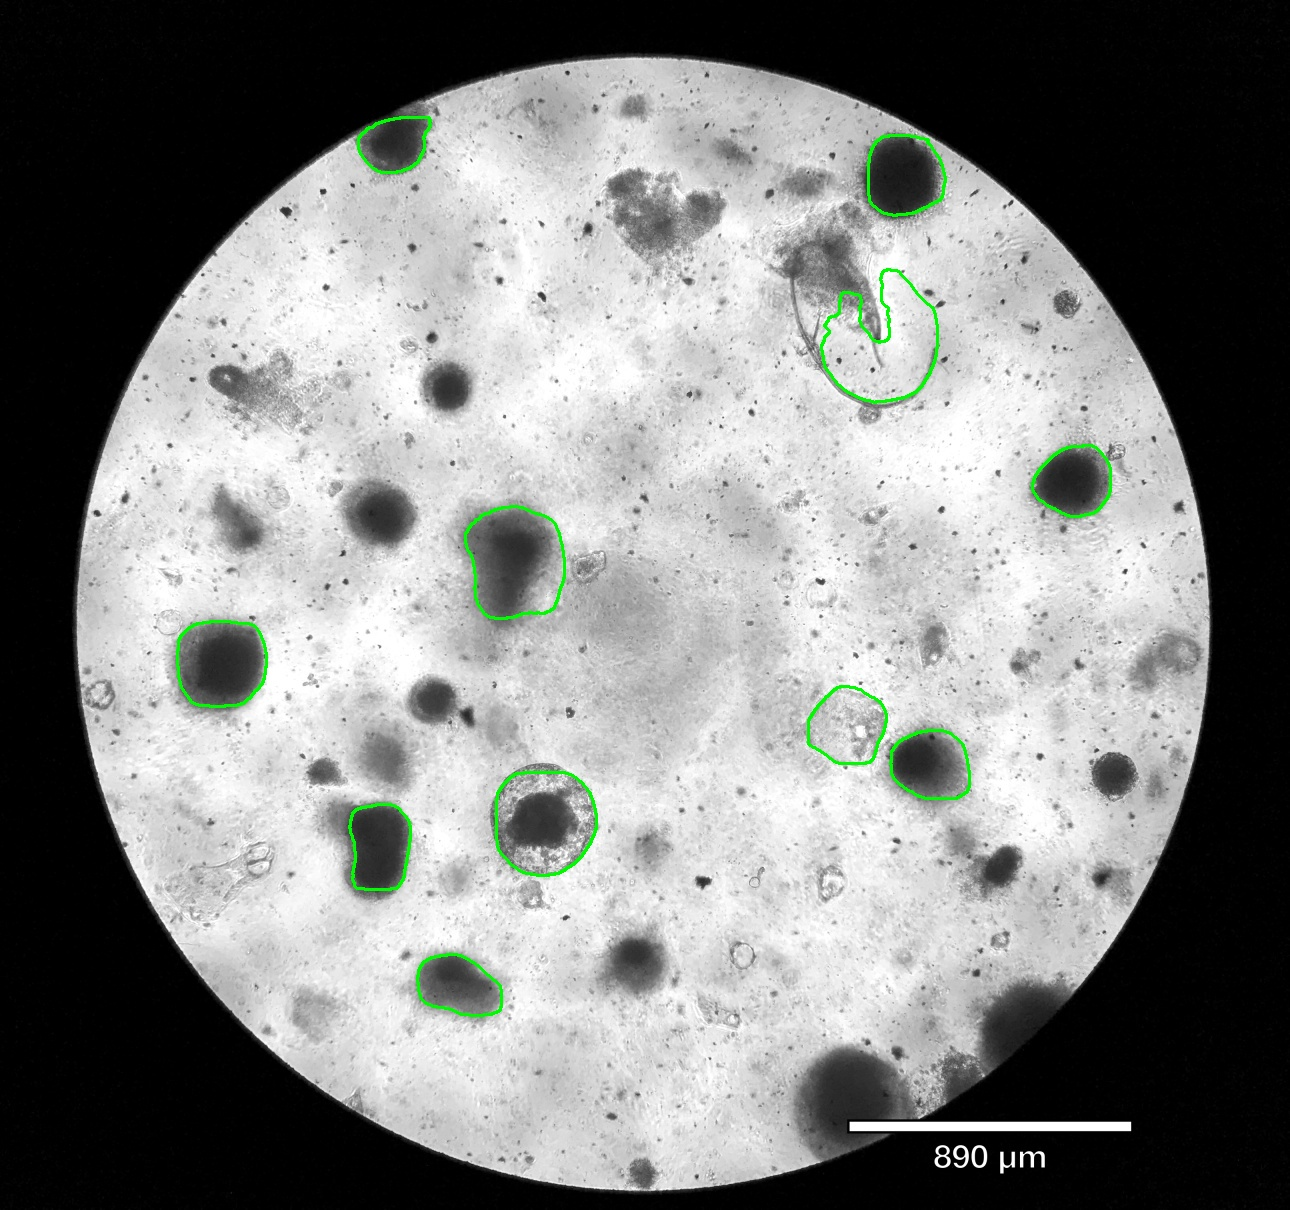
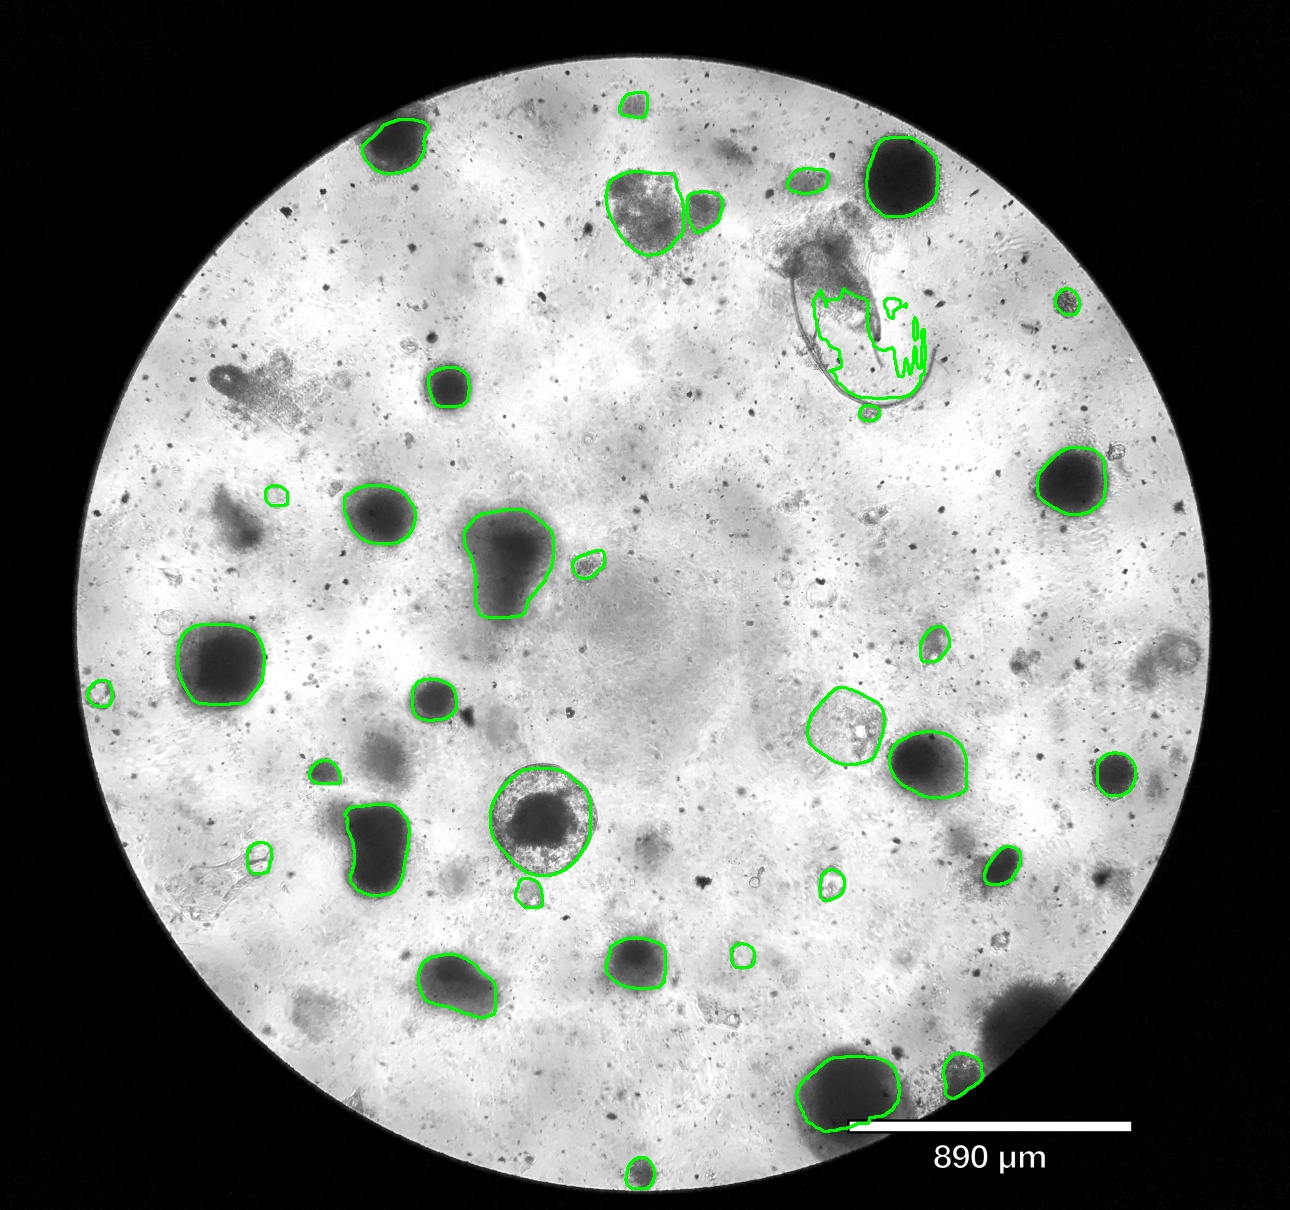
upload idk what to call this commit

diff --git a/mrcnn_training/main/Mask_RCNN/cell_analysis.py b/mrcnn_training/main/Mask_RCNN/cell_analysis.py
@@ -44,7 +44,7 @@ class Config(Config):
     # IMAGE_MAX_DIM = 832
 
 config = Config()
-MRCNN_model_path = "prediction_model\\mask_rcnn_custom_0005.h5"
+MRCNN_model_path = "prediction_model\\mask_rcnn_custom_0015.h5"
 model = modellib.MaskRCNN(mode="inference", model_dir=MRCNN_model_path, config=Config())
 #load model weights
 model.load_weights(MRCNN_model_path, by_name=True)
@@ -55,42 +55,48 @@ input_directory = './input'
 img_name_list = []
 avg_viability_list =[]
 avg_circularity_list = []
-
+avg_contour_area_list = []
+image_resolution_list = []
 for filename in os.listdir(input_directory):
     print("image_name: ",filename)
     f = os.path.join(input_directory, filename)
     if os.path.isfile(f):
        # print(f)
         image = cv2.imread(f)
+        width, height, channels = image.shape
+        image_resolution_list.append(f"{width}x{height}")
+
         results1 = model.detect([image], verbose=10)
         r1 = results1[0]
         thrld = 0.1
         dr = save_directory + '/' + filename
         """ Analysis part """
-        cell_count,cell_state_list,circularity_list = visualize_custom.display_instances(image, r1['rois'], r1['masks'], r1['class_ids'],
+        cell_count,cell_state_list,circularity_list, contour_area_list = visualize_custom.display_instances(image, r1['rois'], r1['masks'], r1['class_ids'],
                                 r1['scores'], thrld, dr,Debug=False)
 
         
         avg_live_state =mean(cell_state_list)
         avg_circularity = mean(circularity_list)
         avg_circularity = round(avg_circularity, 3)
-        
+        avg_contour_area = mean(contour_area_list)*0.20112673401606182 #convert to um
+        avg_contour_area = round(avg_contour_area, 3)
         #print(r1['masks'])
-        print("cellcount: ",cell_count)
-        print("cell_liveliness_state: ",cell_state_list)
-        print("circularity;",circularity_list)
-        print("average_viability: ",avg_live_state)
-        print("average_circularity: ",avg_circularity)
+        # print("cellcount: ",cell_count)
+        # print("cell_liveliness_state: ",cell_state_list)
+        # print("circularity;",circularity_list)
+        # print("average_viability: ",avg_live_state)
+        # print("average_circularity: ",avg_circularity)
         
         img_name_list.append(filename)
         avg_viability_list.append(avg_live_state)
         avg_circularity_list.append(avg_circularity)
+        avg_contour_area_list.append(avg_contour_area)
 
         """ csv file creation """
-        csv_lst = [img_name_list,avg_viability_list,avg_circularity_list]
+        csv_lst = [img_name_list,image_resolution_list,avg_viability_list,avg_contour_area_list,avg_circularity_list]
         
-        df = pd.DataFrame(list(zip(img_name_list, avg_circularity_list,avg_viability_list)),
-               columns =['Image_Name', 'Average_Circularity(ideal circle=0)','Average_Viability (%)'])
+        df = pd.DataFrame(list(zip(img_name_list,image_resolution_list,avg_circularity_list,avg_contour_area_list,avg_viability_list)),
+               columns =['Image_Name','Image_Resolution','Average_Circularity(ideal circle=0)','Average area','Average_Viability (%)'])
         df.to_csv("Analysis_out.csv", encoding='utf-8',index =False)
         
         

diff --git a/mrcnn_training/main/Mask_RCNN/caluclatePixelPerMicron.py b/mrcnn_training/main/Mask_RCNN/caluclatePixelPerMicron.py
@@ -1,0 +1,71 @@
+from tkinter import *
+import tkinter
+from tkinter import filedialog
+from turtle import pos
+import cv2
+import math
+root = Tk()
+root.withdraw()
+somefile = filedialog.askopenfilename()
+
+image = cv2.imread(somefile)
+width, height, channels = image.shape
+print(f"{width}x{height}")
+pos1 =()
+pos2 =()
+def click_event(event, x, y, flags, params):
+    global pos1, pos2
+    font = cv2.FONT_HERSHEY_SIMPLEX
+    # checking for left mouse clicks
+    if event == cv2.EVENT_LBUTTONDOWN:
+        pos1 = (x,y)
+ 
+        # displaying the coordinates
+        # on the Shell
+        print(x, ' ', y)
+ 
+        # displaying the coordinates
+        # on the image window
+
+        cv2.circle(image, (x,y), 5, (235,0,0), thickness=10, lineType=8, shift=0)
+        cv2.putText(image, "Pos 1",
+                    (x,y), font, 1,
+                    (255, 255, 0), 2)
+        cv2.imshow('image', image)
+        
+ 
+    # checking for right mouse clicks    
+    if event==cv2.EVENT_RBUTTONDOWN:
+        pos2 = (x,y)
+ 
+        # displaying the coordinates
+        # on the Shell
+        print(x, ' ', y)
+ 
+        # displaying the coordinates
+        # on the image window
+        cv2.circle(image, (x,y), 5, (0,0,235), thickness=10, lineType=8, shift=0)
+        cv2.putText(image, "Pos 2",
+                    (x,y), font, 1,
+                    (255, 255, 0), 2)
+        cv2.imshow('image', image)
+        
+cv2.imshow('image', image)
+
+# setting mouse handler for the image
+# and calling the click_event() function
+cv2.setMouseCallback('image', click_event)
+
+# wait for a key to be pressed to exit
+cv2.waitKey(0)
+print(pos1)
+pos1A,pos1B = pos1
+pos2A,pos2B = pos2
+dist = math.sqrt((pos1A-pos2A)**2 + (pos1B-pos2B)**2)
+print(dist)
+refrenceUM = input("Enter the refrence um: ")
+
+pixelsPerum = dist/float(refrenceUM)
+print(pixelsPerum)
+# close the window
+cv2.destroyAllWindows()

diff --git a/mrcnn_training/main/Mask_RCNN/mrcnn/visualize_custom.py b/mrcnn_training/main/Mask_RCNN/mrcnn/visualize_custom.py
@@ -58,6 +58,7 @@ def display_instances(image, boxes, masks, class_ids, scores, threshold, filenam
         
     cell_state_list =[]
     circularity_list =[]
+    contour_area_list =[]
     for i in range(N):
 	
         if scores[i] > threshold :  
@@ -109,8 +110,8 @@ def display_instances(image, boxes, masks, class_ids, scores, threshold, filenam
                 #print("avg_pixel_cell crop bb:",avg_pixel_cell)
                 
                 contour_area = cv2.contourArea(verts)
+                contour_area_list.append(contour_area)
                 #print("contour area: ",contour_area)
-                
                 rect_area = w*h
                 #print("rect_area:",rect_area)
                 
@@ -140,7 +141,7 @@ def display_instances(image, boxes, masks, class_ids, scores, threshold, filenam
                 # normalize = (mean_val - minval) / (maxval - minval)
                 # cell_state = normalize
 
-                deadThreshold = 80
+                deadThreshold = 90
                 precent20 = 100
                 precent50 = 120
                 precent80 = 130
@@ -148,7 +149,7 @@ def display_instances(image, boxes, masks, class_ids, scores, threshold, filenam
                 
 
 
-                print(mean_val)
+                # print(mean_val)
                 if 0<mean_val<=deadThreshold:
                     cell_state = "0% live"
                     cell_state =0
@@ -210,7 +211,7 @@ def display_instances(image, boxes, masks, class_ids, scores, threshold, filenam
        # print(cell_state_list)
 
 	
-    return cell,cell_state_list,circularity_list
+    return cell,cell_state_list,circularity_list,contour_area_list
 
 
 

diff --git a/mrcnn_training/main/Mask_RCNN/traintf2_vgia_trial.py b/mrcnn_training/main/Mask_RCNN/traintf2_vgia_trial.py
@@ -37,7 +37,7 @@ class CustomConfig(Config):
 
     # We use a GPU with 12GB memory, which can fit two images.
     # Adjust down if you use a smaller GPU.
-    IMAGES_PER_GPU = 1
+    IMAGES_PER_GPU = 2
 
     # Number of classes (including background)
     NUM_CLASSES = 1 + 1  # Background + number of classes (Here, 2)
@@ -96,7 +96,7 @@ class CustomDataset(utils.Dataset):
                                           #else r['region_attributes']['category_id'] for r in a['regions']]
             
             #print(".............",custom)
-            #print(kkk)
+            
             num_ids=[]
             #Add the classes according to the requirement
             for n in custom:

diff --git a/mrcnn_training/resize.py b/mrcnn_training/resize.py
@@ -8,7 +8,7 @@ for file in os.listdir(path):
     print(f"Resizing {f}")
     img = cv2.imread(f)
     resized = cv2.resize(img,(1360,1024), interpolation=cv2.INTER_AREA)
-    resized = cv2.resize(img,None,fx=0.4, fy=0.4, interpolation=cv2.INTER_AREA)
+    # resized = cv2.resize(img,None,fx=0.4, fy=0.4, interpolation=cv2.INTER_AREA)
     newName = "./raw_data_resized/" + file[:-4] + ".jpg"
     print(newName)
     cv2.imwrite(newName, resized)

diff --git a/mrcnn_training/main/Mask_RCNN/traintf2.py b/mrcnn_training/main/Mask_RCNN/traintf2.py
@@ -67,7 +67,7 @@ class CustomDataset(utils.Dataset):
 
 
         # We mostly care about the x and y coordinates of each region
-        annotations = json.load(open(os.path.join(dataset_dir, "annotation.json")))
+        annotations = json.load(open(os.path.join(dataset_dir, "annotationOLD.json")))
         annotations = list(annotations.values())  # don't need the dict keys
 
 
